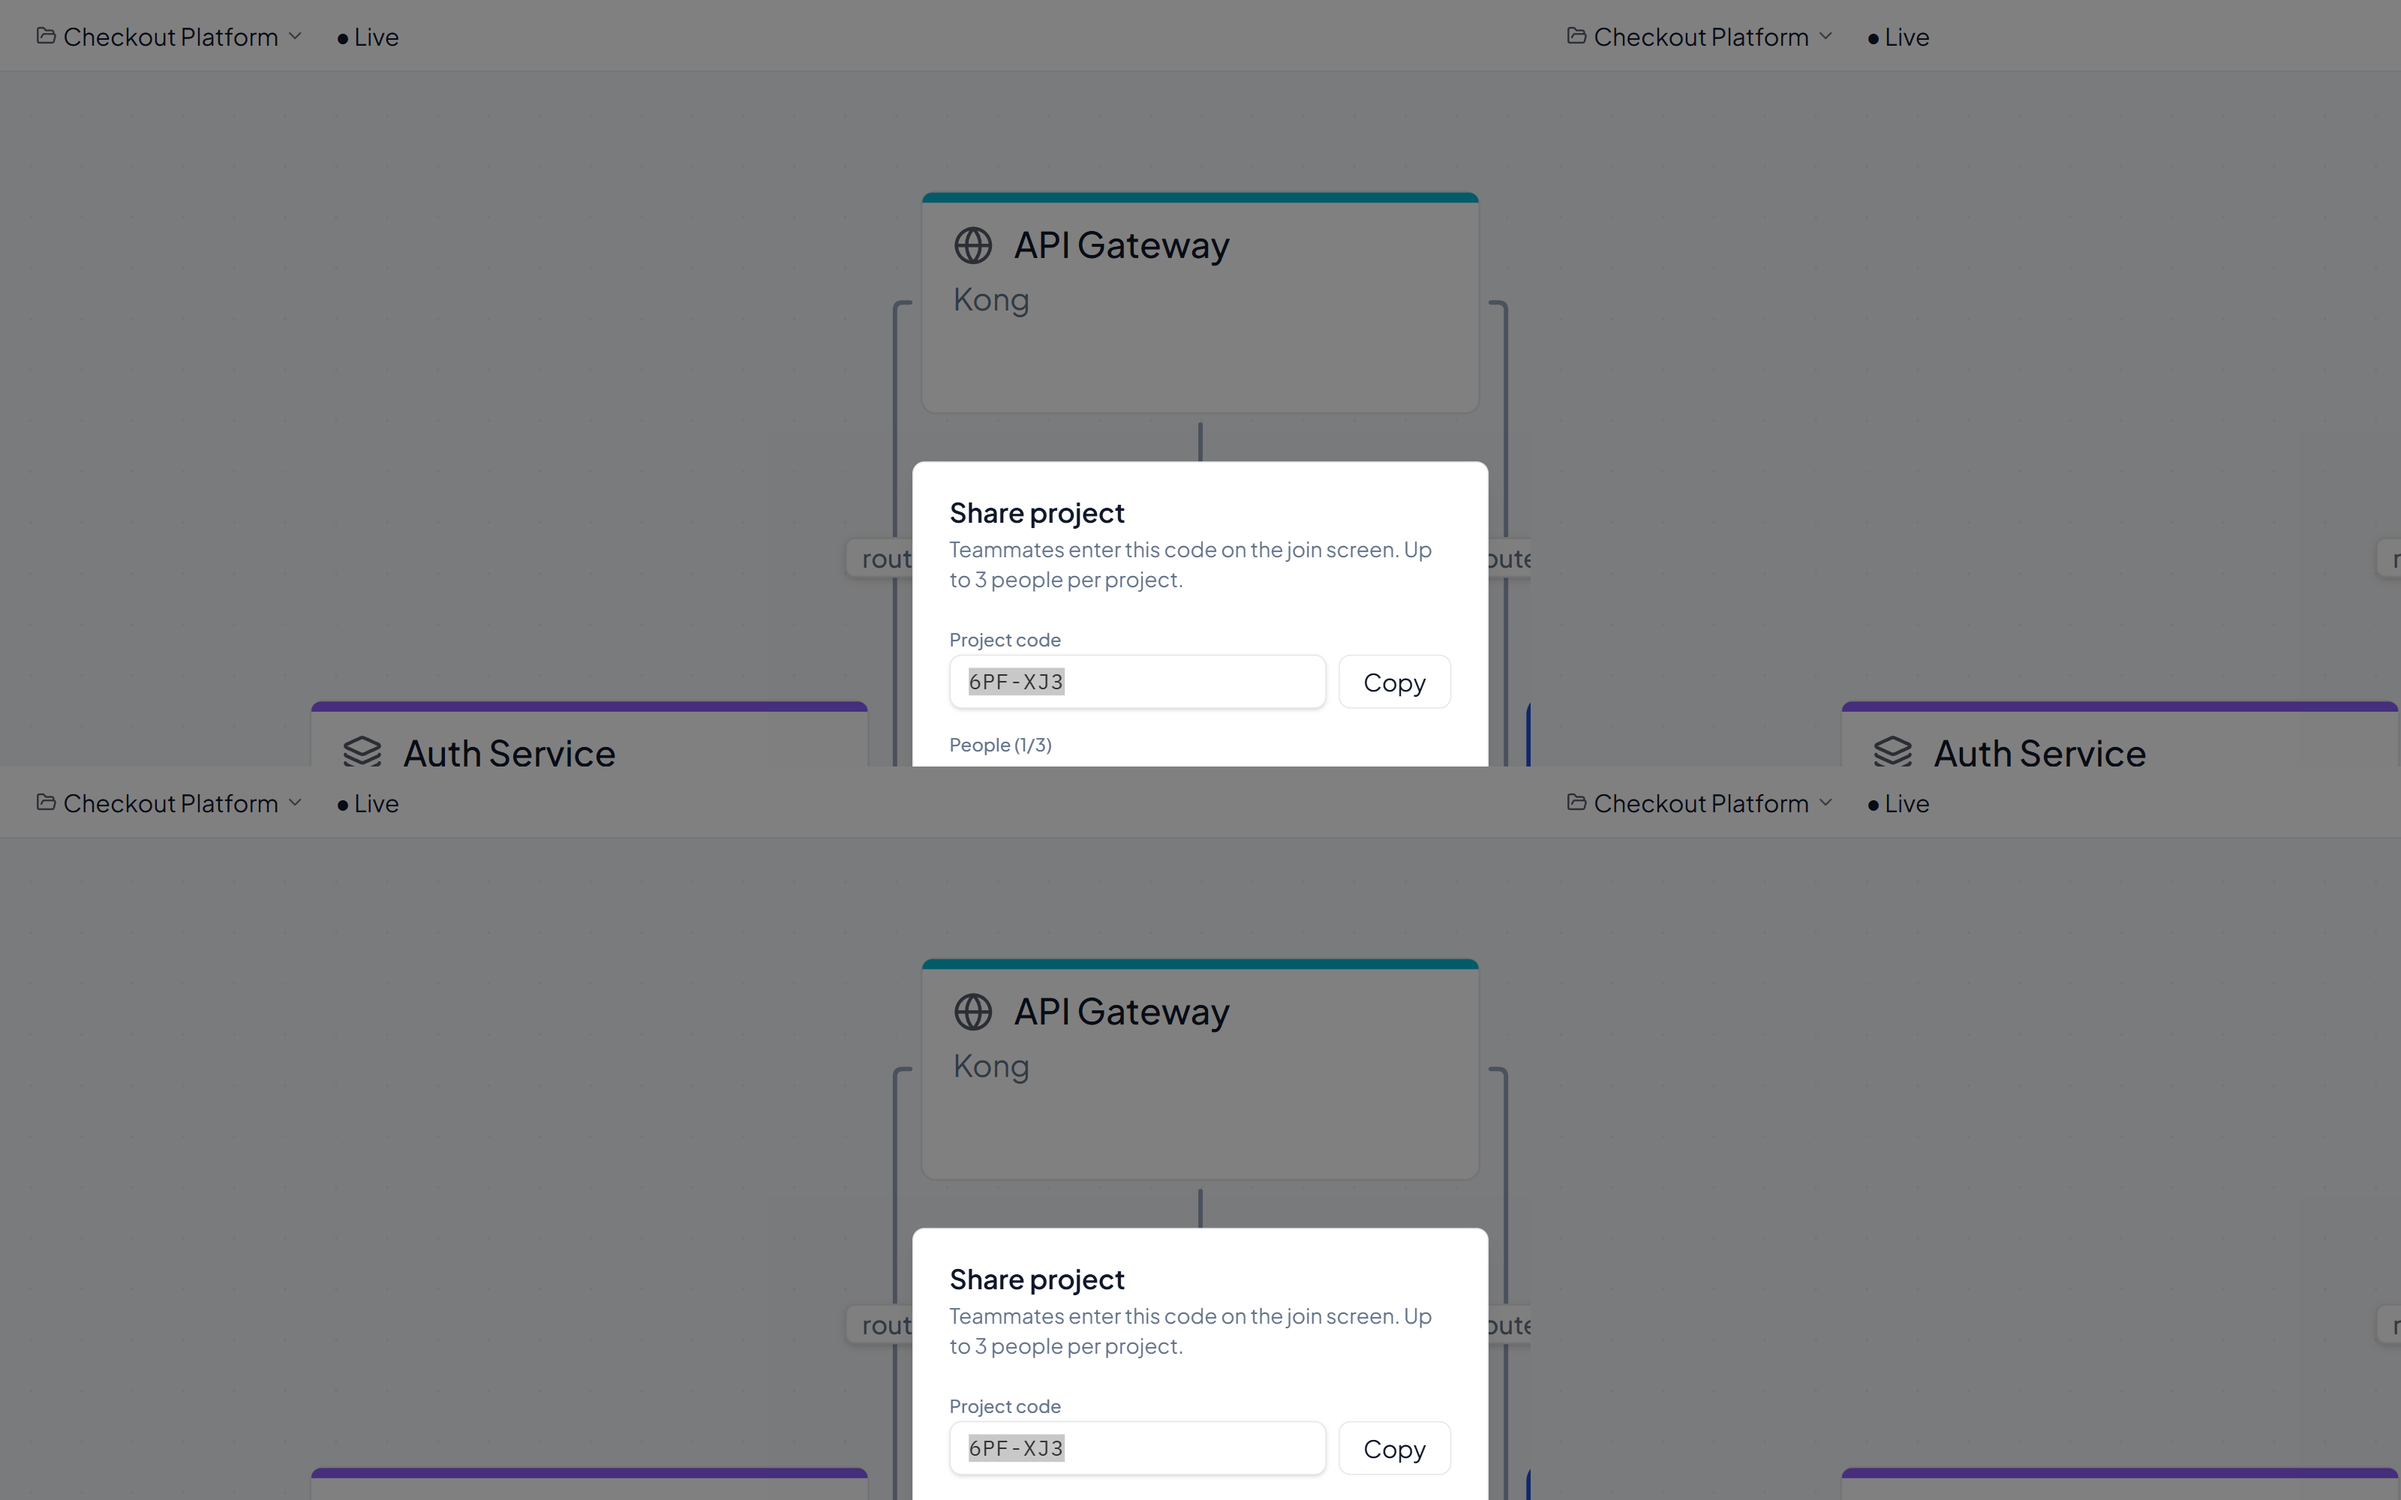
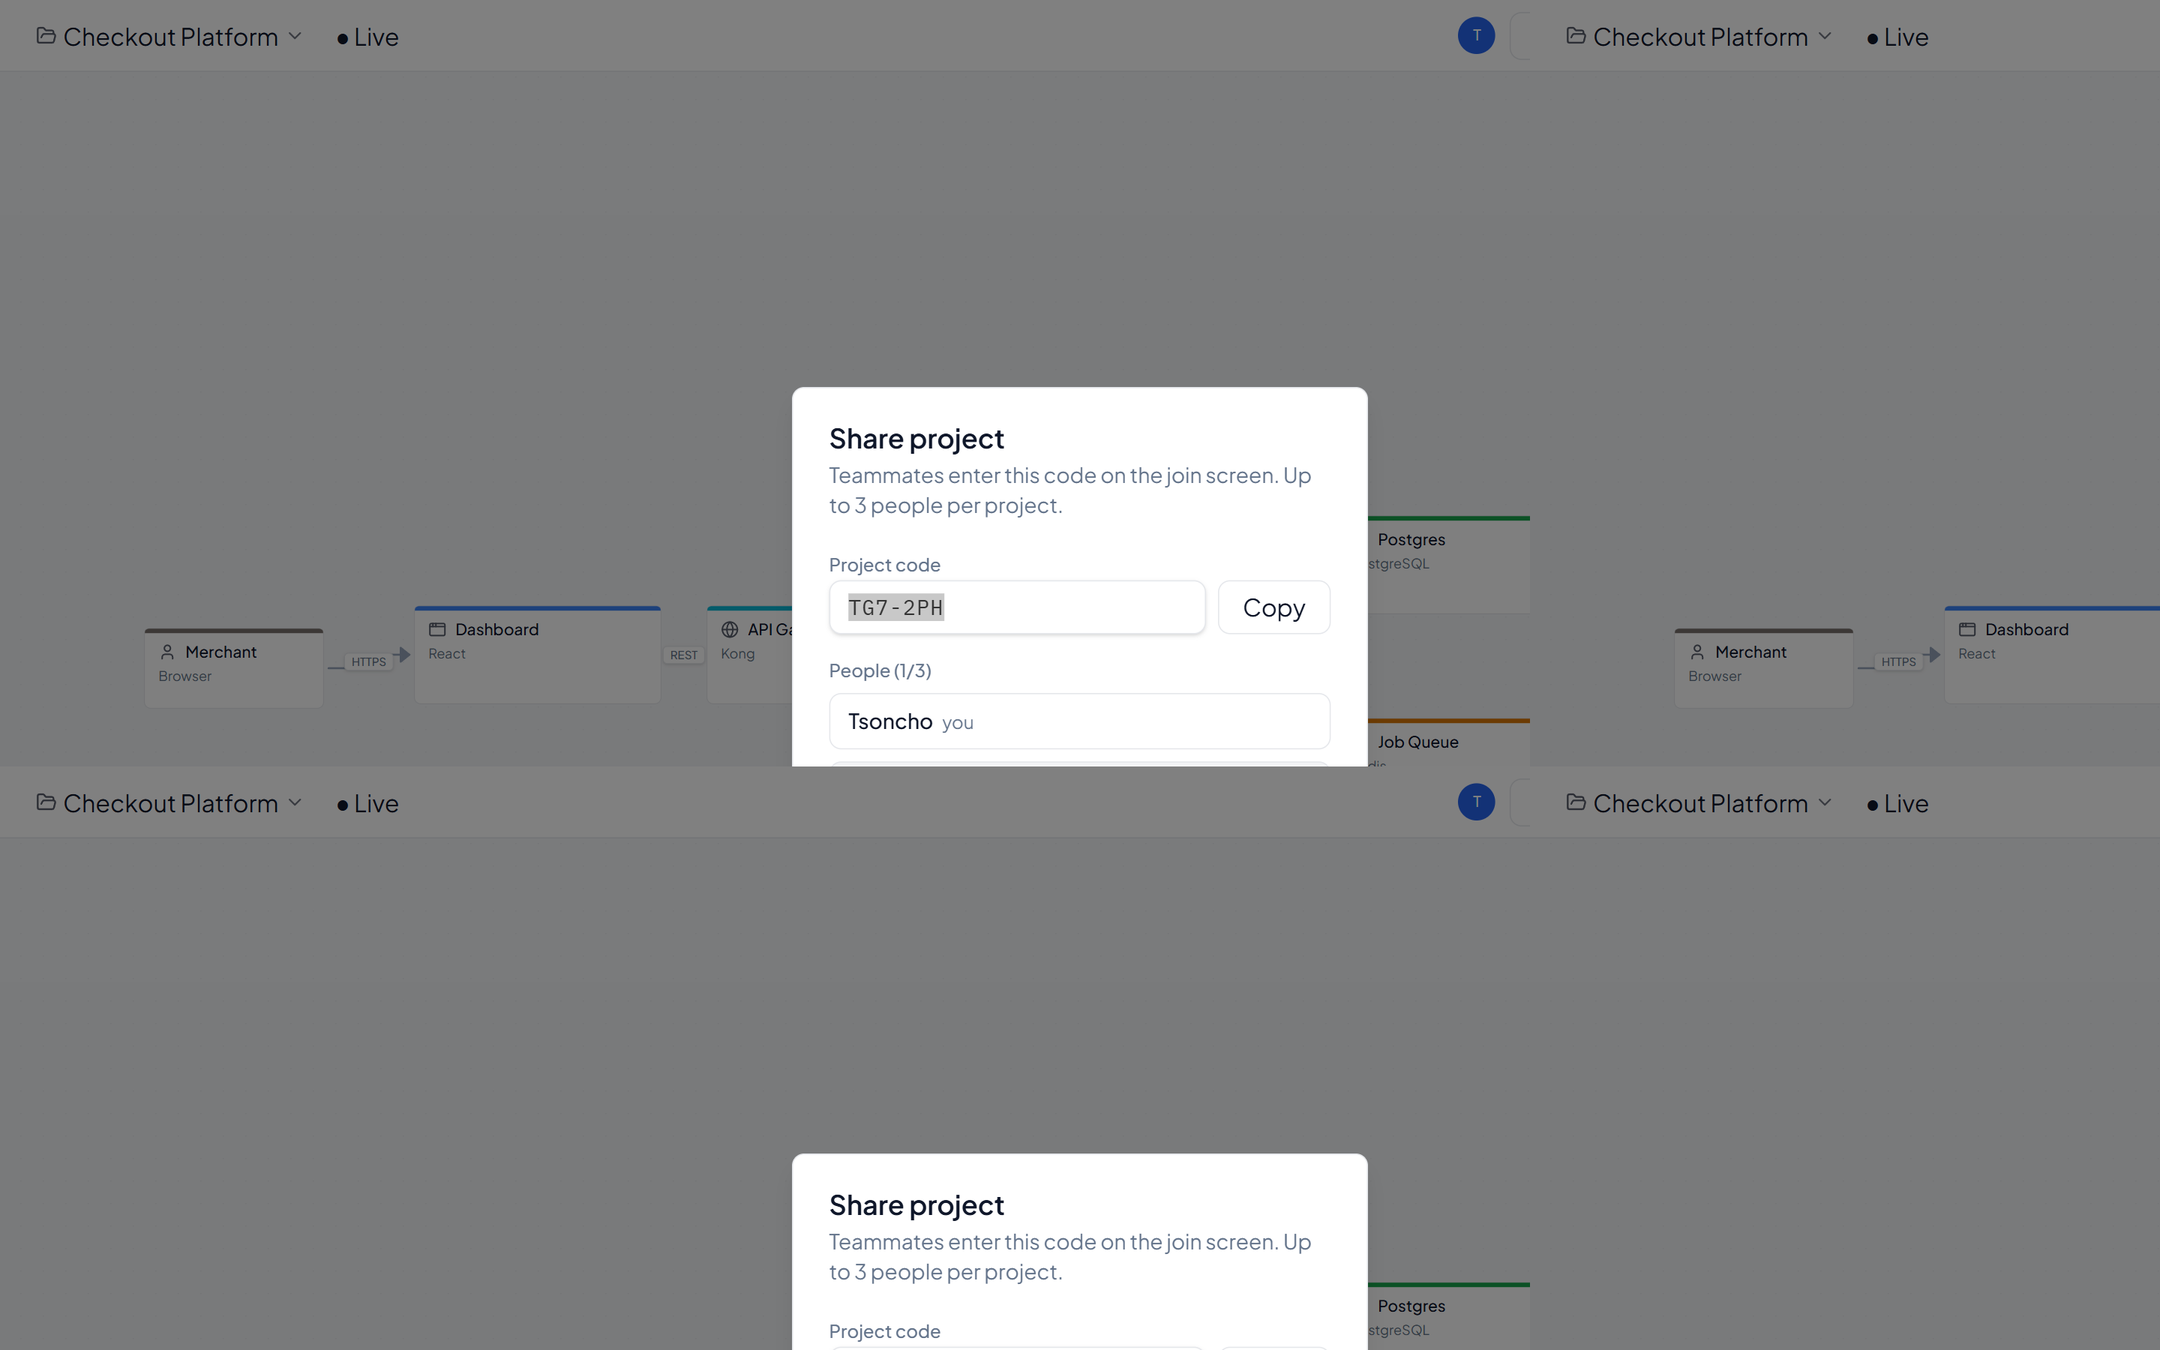
Refresh README shots with richer Checkout Platform demo.
Retina 1440x900@2x captures plus a fuller microservices template (Merchant → Stripe) so the hero actually shows the product off.

diff --git a/src/features/projects/templates.ts b/src/features/projects/templates.ts
@@ -106,56 +106,92 @@ export const PROJECT_TEMPLATES: ProjectTemplate[] = [
   {
     id: 'microservices',
     name: 'Microservices',
-    description: 'API Gateway → Auth / User / Payment → Database',
+    description: 'Merchants → Dashboard → Gateway → services → Postgres / Redis / Stripe',
     nodes: [
+      {
+        type: 'user',
+        name: 'Merchant',
+        technology: 'Browser',
+        color: '#78716c',
+        x: 40,
+        y: 220,
+      },
+      {
+        type: 'application',
+        name: 'Dashboard',
+        technology: 'React',
+        color: '#3b82f6',
+        x: 280,
+        y: 200,
+      },
       {
         type: 'api',
         name: 'API Gateway',
         technology: 'Kong',
         color: '#06b6d4',
-        x: 360,
-        y: 80,
+        x: 540,
+        y: 200,
       },
       {
         type: 'service',
         name: 'Auth Service',
         technology: 'Go',
         color: '#8b5cf6',
-        x: 120,
-        y: 280,
+        x: 820,
+        y: 40,
       },
       {
         type: 'service',
         name: 'User Service',
         technology: 'Node.js',
         color: '#8b5cf6',
-        x: 360,
-        y: 280,
+        x: 820,
+        y: 200,
       },
       {
         type: 'service',
         name: 'Payment Service',
         technology: 'Java',
         color: '#8b5cf6',
-        x: 600,
-        y: 280,
+        x: 820,
+        y: 360,
       },
       {
         type: 'database',
-        name: 'Database',
+        name: 'Postgres',
         technology: 'PostgreSQL',
         color: '#16a34a',
-        x: 360,
+        x: 1100,
+        y: 120,
+      },
+      {
+        type: 'queue',
+        name: 'Job Queue',
+        technology: 'Redis',
+        color: '#d97706',
+        x: 1100,
+        y: 300,
+      },
+      {
+        type: 'external',
+        name: 'Stripe',
+        technology: 'Payments API',
+        color: '#6b7280',
+        x: 1100,
         y: 460,
       },
     ],
     edges: [
-      { sourceIndex: 0, targetIndex: 1, label: 'route' },
-      { sourceIndex: 0, targetIndex: 2, label: 'route' },
-      { sourceIndex: 0, targetIndex: 3, label: 'route' },
-      { sourceIndex: 1, targetIndex: 4, label: 'store' },
-      { sourceIndex: 2, targetIndex: 4, label: 'store' },
-      { sourceIndex: 3, targetIndex: 4, label: 'store' },
+      { sourceIndex: 0, targetIndex: 1, label: 'HTTPS' },
+      { sourceIndex: 1, targetIndex: 2, label: 'REST' },
+      { sourceIndex: 2, targetIndex: 3, label: 'route' },
+      { sourceIndex: 2, targetIndex: 4, label: 'route' },
+      { sourceIndex: 2, targetIndex: 5, label: 'route' },
+      { sourceIndex: 3, targetIndex: 6, label: 'store' },
+      { sourceIndex: 4, targetIndex: 6, label: 'store' },
+      { sourceIndex: 5, targetIndex: 6, label: 'store' },
+      { sourceIndex: 5, targetIndex: 7, label: 'enqueue' },
+      { sourceIndex: 5, targetIndex: 8, label: 'charge' },
     ],
   },
 ]

diff --git a/README.md b/README.md
@@ -15,9 +15,9 @@
 ## Screenshots
 
 <p align="center">
-  <img src="docs/screenshots/editor-canvas.png" alt="Checkout Platform microservices diagram with Live sync and property panel" width="100%" />
+  <img src="docs/screenshots/editor-canvas.png" alt="Checkout Platform: Merchant → Dashboard → Kong → Auth/User/Payment → Postgres, Redis, Stripe" width="100%" />
   <br />
-  <sub>Live canvas — microservices template, selected node, property panel</sub>
+  <sub>Live canvas — Checkout Platform microservices, selected Payment Service + properties</sub>
 </p>
 
 <p align="center">
@@ -25,7 +25,7 @@
   &nbsp;
   <img src="docs/screenshots/spec-export.png" alt="Architecture Spec JSON export" width="48%" />
   <br />
-  <sub>Spec ↔ AI — ask any model, then export/import the JSON</sub>
+  <sub>Spec ↔ AI — paste product docs, copy the prompt, export/import JSON</sub>
 </p>
 
 <p align="center">
@@ -33,13 +33,13 @@
   &nbsp;
   <img src="docs/screenshots/share-project.png" alt="Share dialog with join code" width="48%" />
   <br />
-  <sub>Welcome / share — resume work, invite teammates with a short code</sub>
+  <sub>Welcome / share — resume work, invite with a short code (up to 3 people)</sub>
 </p>
 
 <p align="center">
   <img src="docs/screenshots/create-project.png" alt="Create project with Microservices template selected" width="70%" />
   <br />
-  <sub>Create — name it and start from Blank, Web, Mobile, or Microservices</sub>
+  <sub>Create — Blank, Simple web, Mobile, or Microservices (Merchant → Stripe)</sub>
 </p>
 
 ## Why this exists
